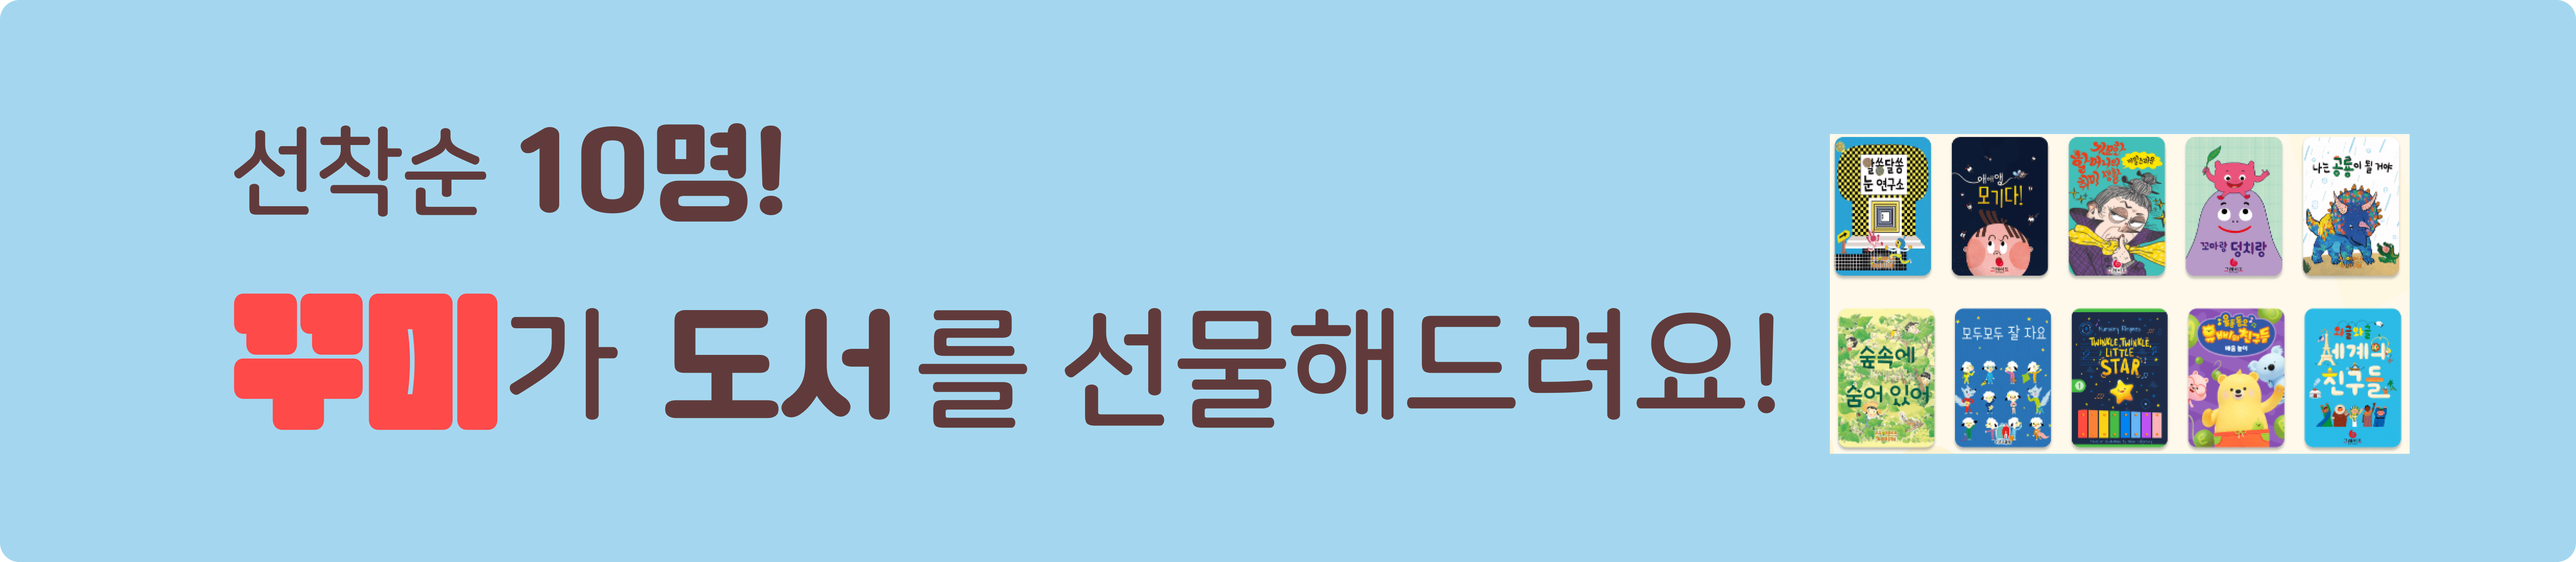
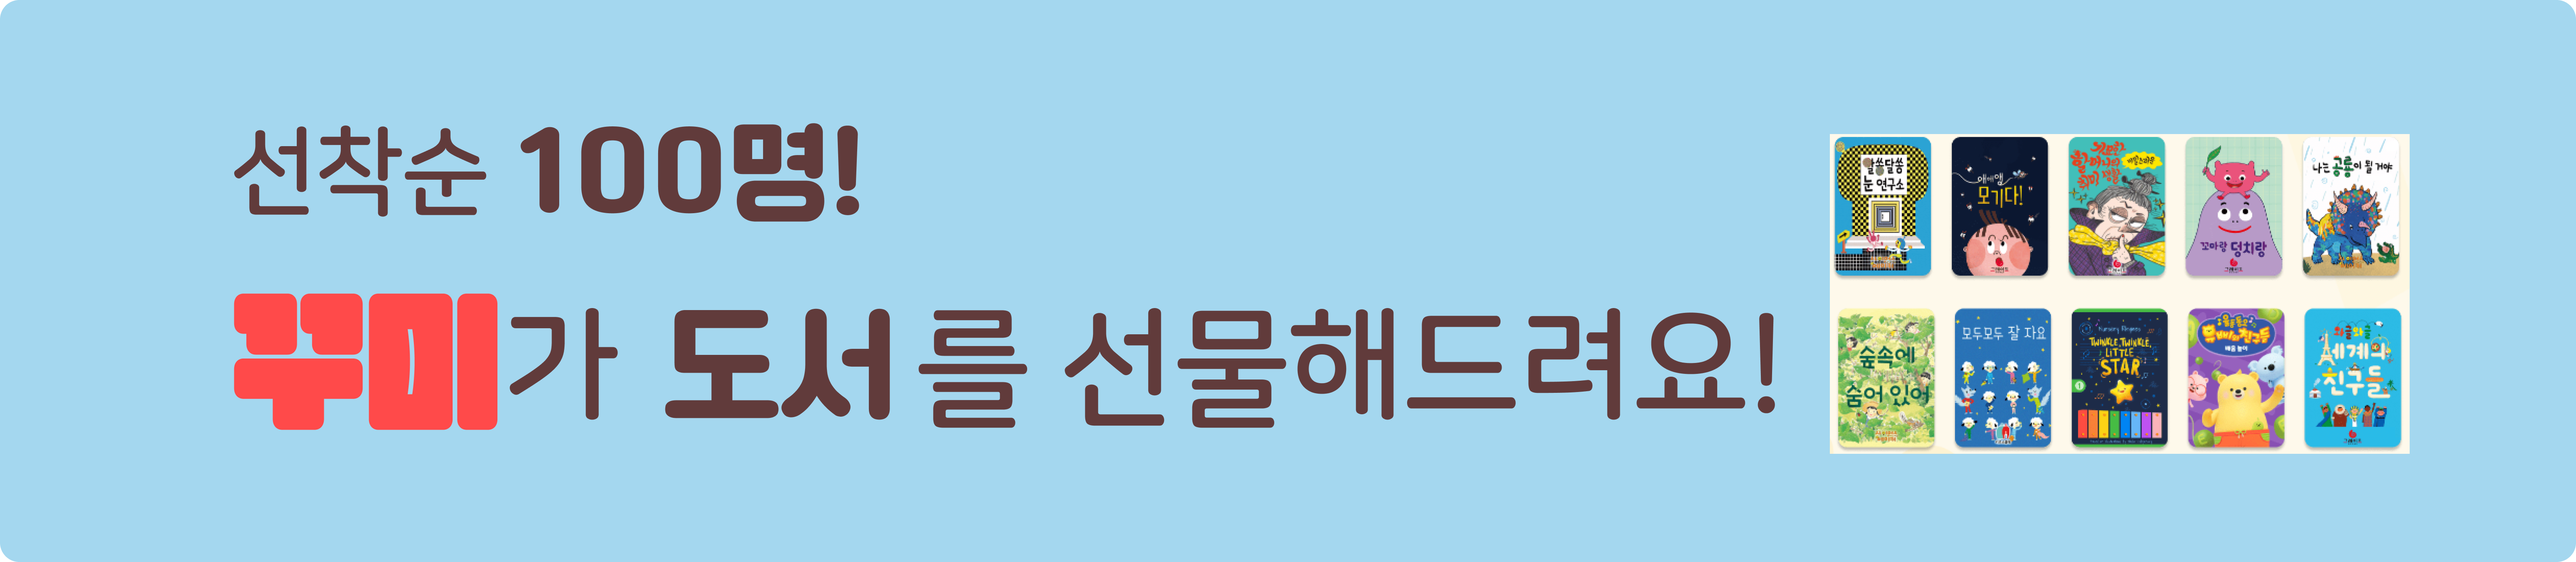
fix : 선착순 인원 문구 변경

Changed region(s): [[0.2495, 0.2162, 0.3431, 0.4016]]

diff --git a/src/pages/eventapply/EventApply.jsx b/src/pages/eventapply/EventApply.jsx
@@ -101,7 +101,7 @@ const EventApply = () => {
     >
       <div className="apply-title-container">
         <div className="apply-sub-title">
-          선착순 10분에게 드리는 특별한 혜택
+          선착순 100분에게 드리는 특별한 혜택
         </div>
         <div className="apply-title">선착순 도서 선물 이벤트!!</div>
       </div>
